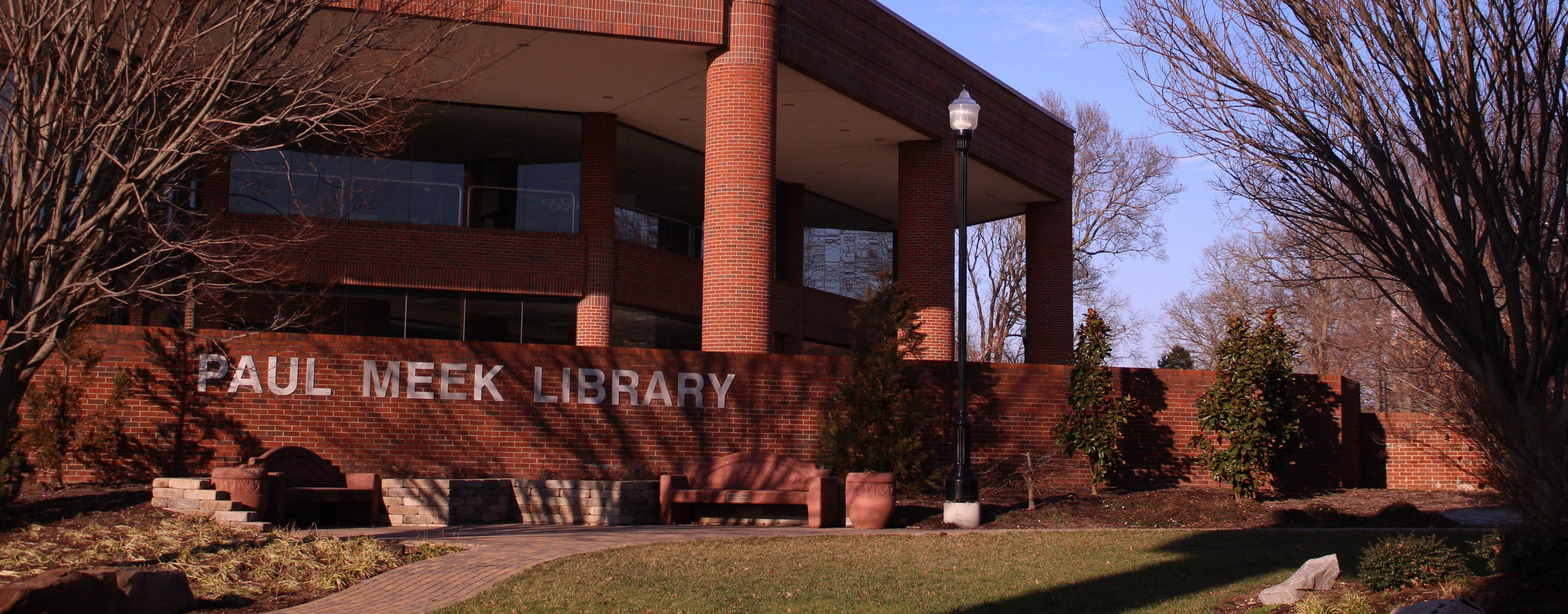
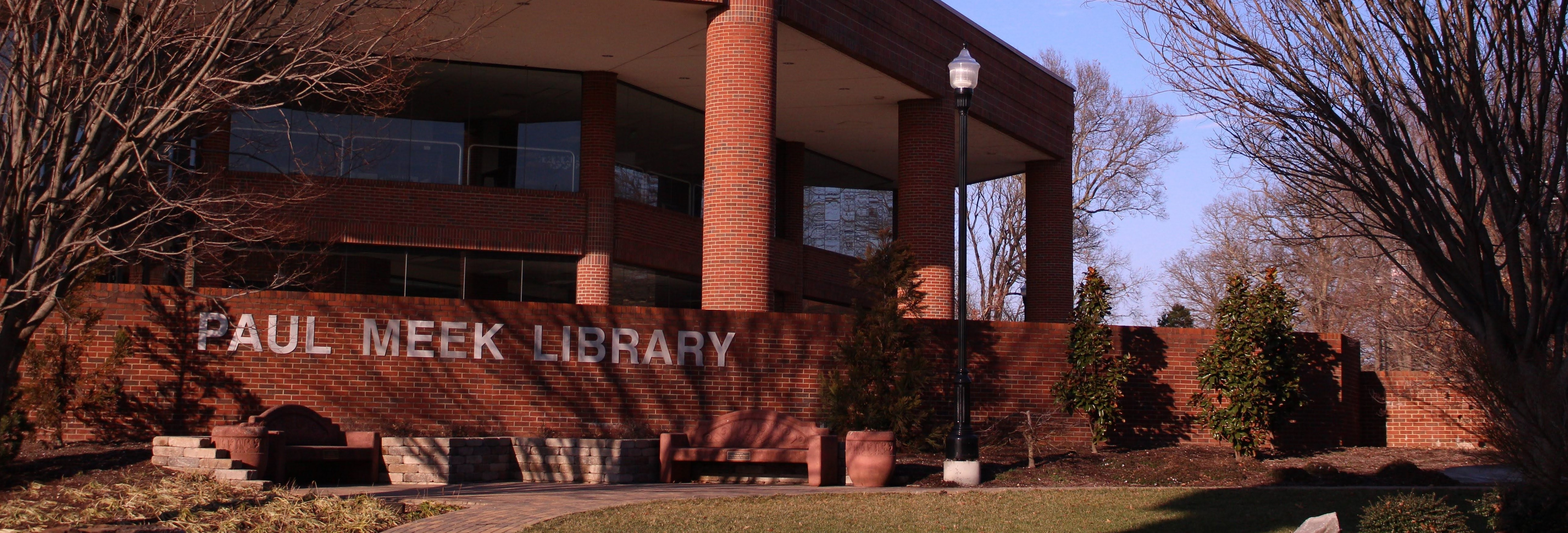
Worked on the floaters and added information about Dr. Tewari.

diff --git a/people.html b/people.html
@@ -16,13 +16,18 @@
   </div>   
      
 
-    <div class="person">
-      <aside class="left_section">
+  <div class="person">
+    <div class="left_section">
         <img src="IMG/rachna_tewari.jpeg">
-        <h2>Dr. Rachna Tewari</h2>
-      </aside>
-      <p class="about"> </p>
+        <h2>Rachna Tewari, PhD</h2>
+        <h4>Principal Investigator</h4>
+        <p class="extra_info">College of Agricultural and Applied Sciences, <br> 265 Brehm Hall</p>
+        <a href="mailto:rtewari@utm.edu">rtewari@utm.edu</a>
     </div>
+    <div class="right_section">
+      <p class="about">Dr. Rachna Tewari is Associate Professor of Agricultural Economics in the Department of Agriculture, Geosciences, and Natural Resources at the University of Tennessee at Martin. Her teaching and research interests are in agribusiness management and entrepreneurship, groundwater management policies, climate change impacts on agriculture, and the scholarship of teaching and learning. Dr. Tewari is an active member of the Agricultural & Applied Economics Association, the Southern Agricultural Economics Association, and the Tennessee Academy of Sciences. Her work has appeared across varied outlets, including CAB Reviews, International Journal of Food and Agricultural Economics, and the Journal of Water and Climate Change. Dr. Tewari has worked with multiple education and outreach programs such as the UTM Mobile Energy Classroom and currently leads the CLASS (Climate Literacy for Agriculture and Sustainable Societies) initiative at UT Martin, funded by the United States Department of Agriculture's Capacity Building Grants. </p>
+    </div>
+</div>
 
     <div class="person">
         <div class="left_section">

diff --git a/index.html b/index.html
@@ -17,7 +17,7 @@
 
   <div class="wrapper">
     <div class="container" id="imgBanner">
-      <img id="bannerPic" src="IMG/library_banner.jpg" width="100%">
+      <img id="bannerPic" class="img-fluid" src="IMG/library_banner.jpg">
       <div class="imgBlock">
         <a href="https://www.utm.edu"><img id="UtmHeaderLogo" src="IMG/The_University_of_Tennessee_Martin.jpg" alt=""></a>
       </div>
@@ -25,7 +25,12 @@
         <p>Lorem, ipsum dolor sit amet consectetur adipisicing elit. Culpa rem officiis molestiae eos iusto, unde sit ea laboriosam placeat beatae voluptatem natus corrupti sint facilis repellat quibusdam vel impedit repudiandae?</p>
       </div>
     </div>
-
+  
+  <div id="descContainer">
+    <p id="desc">
+      Class
+    </p>
+  </div>
   <div id="floaterContainer">
     <a href="aboutCLASS.html">
       <div class="floater" id="abtCLASS">
@@ -74,6 +79,5 @@
            National Institute of Food and Agriculture (PROJ NO: TENW-2016-06721)</span></div>
     </footer>
   </div>
-
 </body>
 </html>

diff --git a/CSS/styles.css b/CSS/styles.css
@@ -70,6 +70,11 @@ a h1{
     overflow: hidden;
 }
 
+#bannerPic{
+    width: 100%;
+    height: auto;
+}
+
 .floater {
     width: 8em;
     height: 6.5em;
@@ -79,18 +84,20 @@ a h1{
     float: left;
     text-align: center;
     line-height: 7em;
-    margin: 2em 2em 2em 0;
+    margin: 2em 2em 0 0;
     border: .2em solid white;
     filter: drop-shadow(.2em .2em .1em grey);
 }
 
 .floaterText{
     position: absolute;
-    bottom: 0;
+    bottom: 1rem;
     right: 0;
     background-color: rgba(56, 56, 56, 0.75);
     color: white;
-    line-height: normal;
+    padding: 0 1rem 0 1rem;
+    font-size: 28px;
+    line-height: .2rem;
     height:auto;
 }
 
@@ -113,8 +120,9 @@ a h1{
 }
 
 #floaterContainer{
-    width: 50%;
-    margin-left:10em;
+    display: inline-block;
+    width: 50rem;
+    margin: 0 0 4em 16em;
 }
 
 #footerContainer{
